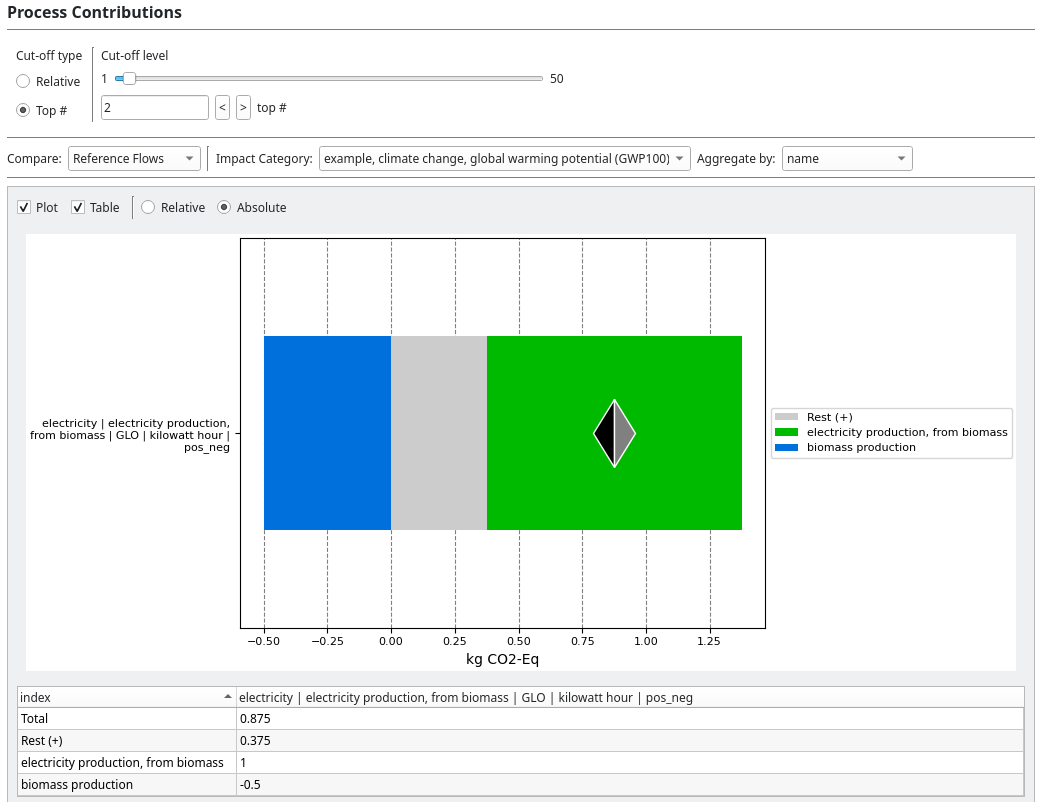
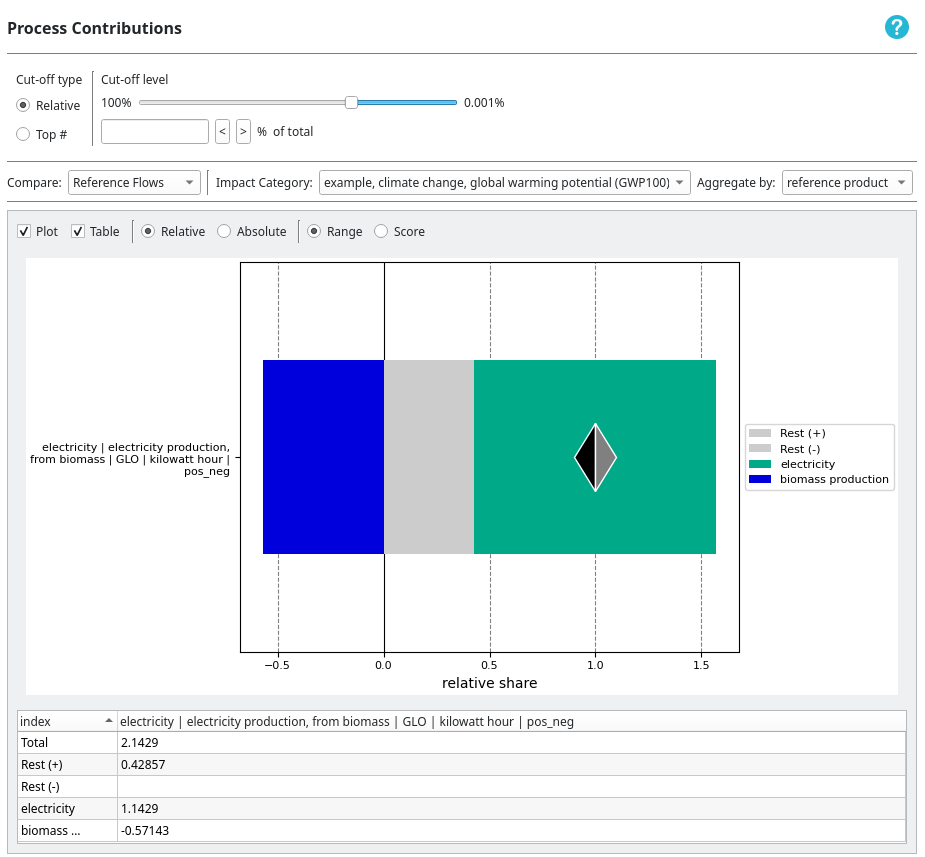
Update wiki documentation and add help buttons to contribution tabs

Changed region(s): [[0.0, 0.0, 0.9989, 0.9975], [0.9384, 0.0, 0.9989, 0.0623], [0.7265, 0.7481, 0.787, 0.7793]]

diff --git a/activity_browser/layouts/tabs/LCA_results_tabs.py b/activity_browser/layouts/tabs/LCA_results_tabs.py
@@ -6,6 +6,7 @@ Each of these classes is either a parent for - or a sub-LCA results tab.
 
 from collections import namedtuple
 from copy import deepcopy
+from termios import VLNEXT
 from typing import List, Optional, Union
 from logging import getLogger
 
@@ -19,7 +20,6 @@ from PySide2.QtWidgets import (QApplication, QButtonGroup, QCheckBox,
                                QPushButton, QRadioButton, QScrollArea,
                                QTableView, QTabWidget, QToolBar, QVBoxLayout,
                                QWidget)
-from openpyxl.styles.builtins import percent
 
 from activity_browser.bwutils import AB_metadata
 
@@ -53,6 +53,16 @@ def get_header_layout(header_text: str) -> QVBoxLayout:
     vlayout.addWidget(horizontal_line())
     return vlayout
 
+def get_header_layout_w_help(header_text: str, help_widget) -> QVBoxLayout:
+    hlayout = QHBoxLayout()
+    hlayout.addWidget(header(header_text))
+    hlayout.addWidget(help_widget)
+    hlayout.setStretch(0, 1)
+
+    vlayout = QVBoxLayout()
+    vlayout.addLayout(hlayout)
+    vlayout.addWidget(horizontal_line())
+    return vlayout
 
 def get_unit(method: tuple, relative: bool = False) -> str:
     """Get the unit for plot axis naming.
@@ -236,6 +246,9 @@ class NewAnalysisTab(BaseRightTab):
 
     def __init__(self, parent=None):
         super().__init__(parent)
+
+        self.help_button: Optional[QToolBar] = None
+
         self.parent = parent
         self.has_scenarios = self.parent.has_scenarios
 
@@ -954,6 +967,24 @@ class ContributionTab(NewAnalysisTab):
 
         self.has_been_opened = False
 
+        # set-up the help button
+        self.explain_text = """
+                <p>There are three ways of doing Contribtion Analysis in Activity Browser:</h4>
+                <p>- <b>Elementary Flow (EF) Contributions</b></p>
+                <p>- <b>Process Contributions</b></p>
+                <p>- <b>First Tier (FT) Contributions</b></p>
+                
+                Detailed information on the different approaches provided in this <a href="https://github.com/LCA-ActivityBrowser/activity-browser/wiki/LCA-Results#contribution-analysis">wiki page</a> about the different approaches. 
+
+                <p>You can manipulate the results in many ways with Activity Browser, read more on this <a href="https://github.com/LCA-ActivityBrowser/activity-browser/wiki/LCA-Results#manipulating-results">wiki page</a>
+                about manipulating results. 
+                """
+
+        self.help_button = QToolBar(self)
+        self.help_button.addAction(
+            qicons.question, "Left click for help on Contribution Analysis Functions", self.explanation
+        )
+
     def set_filename(self, optional_fields: dict = None):
         """Given a dictionary of fields, put together a usable filename for the plot and table."""
         optional = optional_fields or {}
@@ -1135,7 +1166,8 @@ class ElementaryFlowContributionTab(ContributionTab):
     def __init__(self, parent=None):
         super().__init__(parent)
 
-        self.layout.addLayout(get_header_layout("Elementary Flow Contributions"))
+        header = get_header_layout_w_help("Elementary Flow Contributions", self.help_button)
+        self.layout.addLayout(header)
         self.layout.addWidget(self.cutoff_menu)
         self.layout.addWidget(horizontal_line())
         combobox = self.build_combobox(has_method=True, has_func=True)
@@ -1188,7 +1220,8 @@ class ProcessContributionsTab(ContributionTab):
     def __init__(self, parent=None):
         super().__init__(parent)
 
-        self.layout.addLayout(get_header_layout("Process Contributions"))
+        header = get_header_layout_w_help("Process Contributions", self.help_button)
+        self.layout.addLayout(header)
         self.layout.addWidget(self.cutoff_menu)
         self.layout.addWidget(horizontal_line())
         combobox = self.build_combobox(has_method=True, has_func=True)
@@ -1255,7 +1288,8 @@ class FirstTierContributionsTab(ContributionTab):
         # we also cache totals, not for calculation speed, but to be able to easily convert for relative results
         self.caching = True  # set to False to disable caching for debug
 
-        self.layout.addLayout(get_header_layout("First Tier Contributions"))
+        header = get_header_layout_w_help("First Tier Contributions", self.help_button)
+        self.layout.addLayout(header)
         self.layout.addWidget(self.cutoff_menu)
         self.layout.addWidget(horizontal_line())
         combobox = self.build_combobox(has_method=True, has_func=True)

diff --git a/activity_browser/docs/wiki/LCA-Results.md b/activity_browser/docs/wiki/LCA-Results.md
@@ -100,14 +100,15 @@ we call the _from_ part of the contributions (the EFs or activities or FT above)
 
 There are several ways Activity Browser manipulates your results by default.
 - The results are **sorted** so that the row with the largest (absolute) average values are shown first.
-- A `cut-off` of 5% is applied, this only shows results that contribute at least 5% to the total result, 
+- A `cut-off` of 5% is applied, this only shows results that contribute at least 5% to the total range of results, 
   all other entities are grouped into a `Rest (+)` or `Rest (-)` groups.
 - The contributions are _normalized_ to the impact of that reference flow, meaning they are show as a percentage, 
   counting up to 100% for every item you compare.
 
 These actions are taken to show you the most relevant results.
 
-You can manually manipulate the contribution results in the next menu, which we explain bit by bit below.
+You can manually manipulate the contribution results in the menu shown below, which we will explain bit by bit 
+in the next sections.
 ![contributions cutoff](./assets/contribution_manipulation.png)
 
 #### Cut-off
@@ -139,8 +140,18 @@ By default, Activity Browser shows a plot and a table.
 You can disable one of them if you want to focus on one of them.
 
 #### Relative and Absolute
-Finally, you can choose between `Relative` and `Absolute` results.
+You can choose between `Relative` and `Absolute` results.
 The `Relative` results will sum to 100% (the total score), the `Absolute` results will sum to the impact score.
+
+#### Range and Score
+If the Cut-off type is `Relative`, you can choose between `Range` and `Score`.
+This determines what you use as the _total_ to which the relative contributions are counted. 
+For `Range`, this is the full _range_ of results, for example, if all your negative results together have a score of -2
+and all your positive results together have a score of 10, the _range_ is 12 (-2 * -1 + 10).
+For `Score`, this is the total score (sum) of the results, for example, if all your negative results together have a 
+score of -2 and all your positive results together have a score of 10, the _score_ is 8 (-2 + 10).
+The `Range` or `Score` setting are only used when 1) your Cut-off type is `Relative` 
+and 2) your results contain both positive and negative results.
 
 ### Positive and negative numbers in contribution results
 It can happen in LCA that you get both positive and negative numbers in your contribution results.
@@ -152,16 +163,6 @@ where the total score is, and show positive and negative contributions to the im
 Below is a simple example (with unrealistic values) to demonstrate this:
 
 ![CA example with positive and negative results](./assets/ca_positive_negative_example.png)
-
-Other softwares (e.g. [Brightway2-Analyzer](https://github.com/brightway-lca/brightway2-analyzer)) 
-may use a different 'total', meaning the contributions may look different.
-For example, Brightway2-Analyzer uses the total of absolute values 
-(so the range of numbers from the lowest negative number to the highest positive number) as 100% of the score.
-
-> [!IMPORTANT]
-> Due to Activity Browser using 100% as the 'total' when you sum all positive contributions, 
-> positive results will sum to over 100% when there are also negative numbers, which will sum together to 100%.
-> Even single contributions may be over 100%. 
 
 ## Sankey
 The `Sankey` tab shows results from [graph traversal](https://docs.brightway.dev/projects/graphtools/en/latest/index.html).
